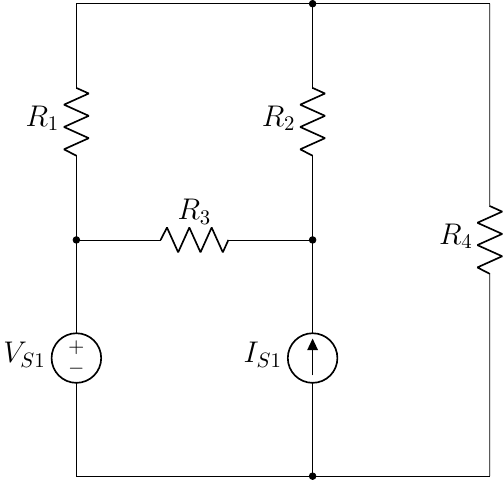
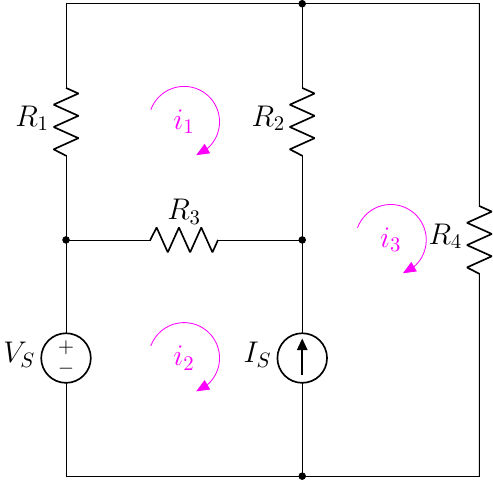
edit 3.50

diff --git a/1.6 Supermesh/3.5 Super Mesh Analysis/3.50(new).tex b/1.6 Supermesh/3.5 Super Mesh Analysis/3.50(new).tex
@@ -2,10 +2,10 @@
 \begin{document}
 \begin{circuitikz}[american]
     %%% vertical %%%
-    \draw(0,0)  to[V,l=\vsname{1}] ++(0,4)
+    \draw(0,0)  to[V,l=\vsname{}] ++(0,4)
                 to[R,l=\rname{1}] ++(0,4);
 
-    \draw(4,0)  to[I,l=\isname{1}] ++(0,4) 
+    \draw(4,0)  to[I,l=\isname{}] ++(0,4) 
                 to[R,l=\rname{2}] ++(0,4);
 
     \draw(7,0)  to[R,l=\rname{4}] ++(0,8);
@@ -19,5 +19,8 @@
                 to[short] ++(3,0);
 
     %%% find %%%
+    \loopc{2}{6}{1};
+    \loopc{2}{2}{2};
+    \loopc{5.5}{4}{3};
 \end{circuitikz}
 \end{document}
